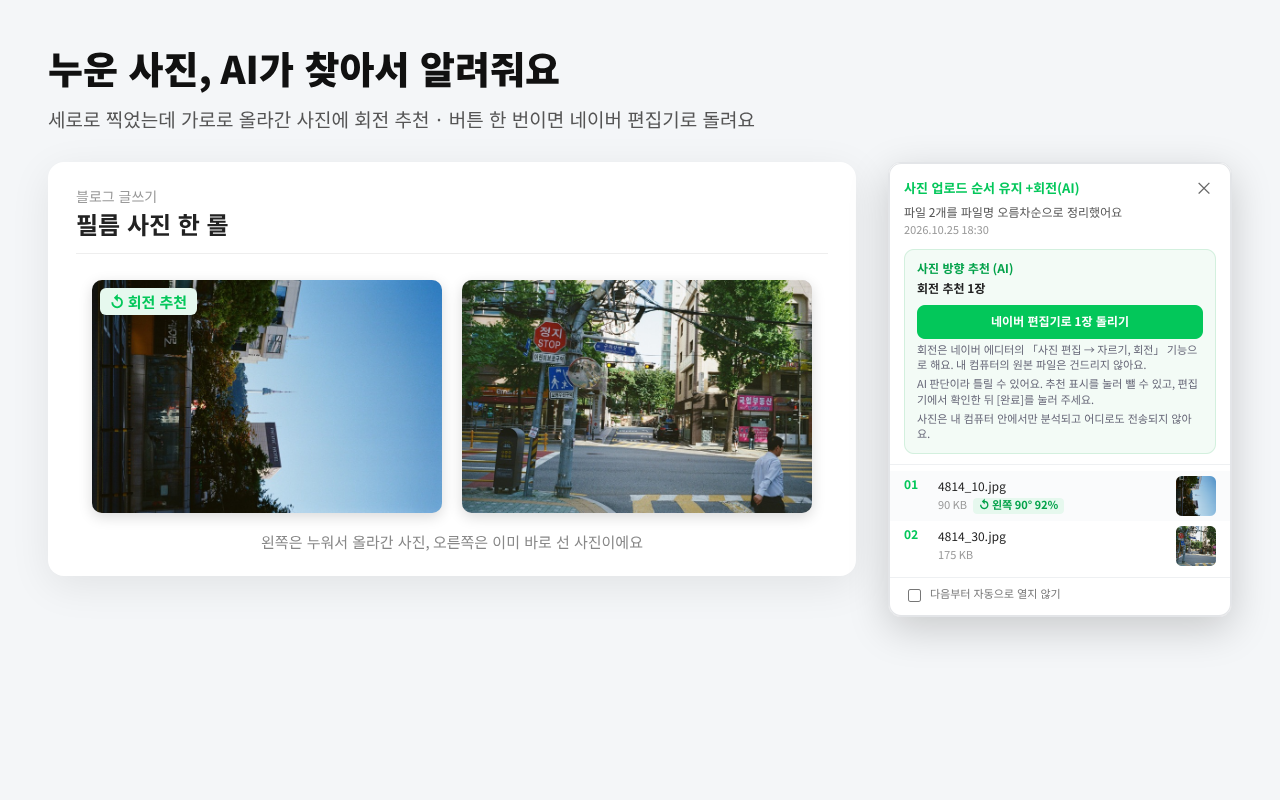
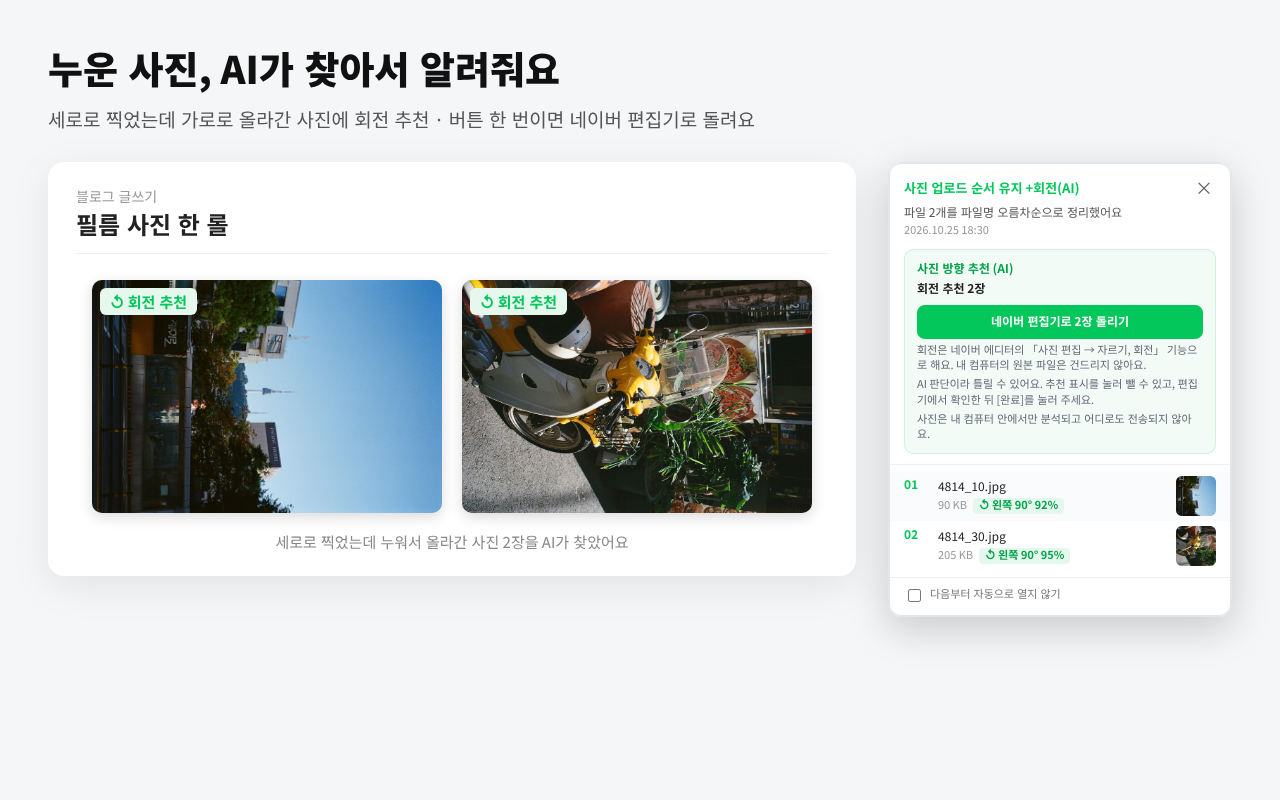
스토어 이미지: 바로 선 예시(4814_30)를 누운 스쿠터 사진으로 교체, 회전 추천 2장 기준으로 갱신
Claude-Session: https://claude.ai/code/session_01QBboerzd2zjP8gfp9oGJJR

Changed region(s): [[0.1875, 0.3438, 0.6562, 0.6875], [0.9062, 0.6562, 0.9688, 0.7188], [0.75, 0.6875, 0.8438, 0.7188]]

diff --git a/05_디자인_제작스크립트/v1.4/store-images-render-v1.4.js b/05_디자인_제작스크립트/v1.4/store-images-render-v1.4.js
@@ -1,6 +1,6 @@
 // v1.4.0 스토어 이미지 생성 (정렬 + 사진 방향 추천 AI + 네이버 카페 지원)
-// 필요한 파일: 필름 사진 4814_10.jpg(누운 사진)·4814_30.jpg(바로 선 사진), 확장 소스(sorter.js의 PANEL_CSS로 결과 목록을 그림)
-// v1.4.0: 예시 사진을 2장(10·30)만 쓰도록 변경, 결과 목록은 실제 확장 CSS로 다시 그림
+// 필요한 파일: 필름 사진 4814_10.jpg·4814_scooter.jpg(둘 다 누운 사진), 확장 소스(sorter.js의 PANEL_CSS로 결과 목록을 그림)
+// v1.4.0: 예시 사진을 누운 사진 2장(거리·스쿠터)으로 변경, 결과 목록은 실제 확장 CSS로 다시 그림
 // 실행: EXT=<확장 소스 폴더> node store-images-render-v1.4.js
 const { chromium } = require(process.env.PW || 'playwright');
 const fs = require('fs');
@@ -14,8 +14,8 @@ const thumb = (n, i, w=150) => `<div style="width:${w}px;height:${Math.round(w*0
   <div style="position:absolute;left:8px;bottom:6px;background:rgba(0,0,0,.6);color:#fff;font-size:${w>120?13:11}px;padding:2px 7px;border-radius:5px">${n}</div></div>`;
 const toast = (txt) => `<div style="display:inline-block;background:rgba(30,30,30,.92);color:#fff;padding:12px 20px;border-radius:10px;font-size:17px;box-shadow:0 6px 20px rgba(0,0,0,.25);white-space:nowrap"><b style="color:${G}">${NAME_SHORT}</b>: ${txt}</div>`;
 const sorted = ['IMG_1.jpg','IMG_2.jpg','IMG_3.jpg','IMG_4.jpg','IMG_5.jpg','IMG_10.jpg'];
-// 필름 사진: 10은 누워 있음(왼쪽 90° 돌리면 바로 섬), 30은 바로 선 사진
-const film = { s10: uri('4814_10.jpg'), u30: uri('4814_30.jpg') };
+// 필름 사진: 둘 다 누워 있음(왼쪽 90° 돌리면 바로 섬)
+const film = { s10: uri('4814_10.jpg'), s2: uri('4814_scooter.jpg') };
 // 누운 사진을 바로 세운 모습 (가로 사진 영역 안에서 -90° 회전)
 const photo = (src, w, { rotate = false, tag = '' } = {}) => {
   const h = Math.round(w * 2 / 3);
@@ -53,12 +53,12 @@ const chip = (txt, color = G, bg = '#e6f8ee') => `<span style="display:inline-bl
   const panelHtml = `<style>${PANEL_CSS} body{margin:0;background:#fff} .wrap{font-family:"Noto Sans CJK KR",sans-serif !important}</style>
    <div class="wrap"><header><div class="top"><span class="title">${NAME_SHORT}</span><button class="close">×</button></div>
      <div class="meta">파일 2개를 파일명 오름차순으로 정리했어요</div><div class="sub">2026.10.25 18:30</div>
-     <div class="ai"><div class="ai-head">사진 방향 추천 (AI)</div><div class="ai-status">회전 추천 1장</div>
-       <button class="ai-go">네이버 편집기로 1장 돌리기</button>
+     <div class="ai"><div class="ai-head">사진 방향 추천 (AI)</div><div class="ai-status">회전 추천 2장</div>
+       <button class="ai-go">네이버 편집기로 2장 돌리기</button>
        <div class="ai-note">회전은 네이버 에디터의 「사진 편집 → 자르기, 회전」 기능으로 해요. 내 컴퓨터의 원본 파일은 건드리지 않아요.</div>
        <div class="ai-note">AI 판단이라 틀릴 수 있어요. 추천 표시를 눌러 뺄 수 있고, 편집기에서 확인한 뒤 [완료]를 눌러 주세요.</div>
        <div class="ai-note">사진은 내 컴퓨터 안에서만 분석되고 어디로도 전송되지 않아요.</div></div></header>
-     <ol>${row('01', '4814_10.jpg', '90 KB', '왼쪽 90° 92%', film.s10)}${row('02', '4814_30.jpg', '175 KB', '', film.u30)}</ol>
+     <ol>${row('01', '4814_10.jpg', '90 KB', '왼쪽 90° 92%', film.s10)}${row('02', '4814_30.jpg', '205 KB', '왼쪽 90° 95%', film.s2)}</ol>
      <footer><label><input type="checkbox"> 다음부터 자동으로 열지 않기</label></footer></div>`;
   const pg = await b.newPage({ viewport: { width: 342, height: 800 }, deviceScaleFactor: 2 });
   await pg.setContent(panelHtml);
@@ -84,9 +84,9 @@ const chip = (txt, color = G, bg = '#e6f8ee') => `<span style="display:inline-bl
         <div style="font-size:14px;color:#999">블로그 글쓰기</div>
         <div style="font-size:24px;font-weight:700;color:#222;border-bottom:1px solid #eee;padding-bottom:12px">필름 사진 한 롤</div>
         <div style="display:flex;gap:20px;margin-top:26px;justify-content:center;align-items:center">
-          ${photo(film.s10, 350, { tag: recTag })}${photo(film.u30, 350)}
+          ${photo(film.s10, 350, { tag: recTag })}${photo(film.s2, 350, { tag: recTag })}
         </div>
-        <div style="font-size:15px;color:#888;margin-top:18px;text-align:center">왼쪽은 누워서 올라간 사진, 오른쪽은 이미 바로 선 사진이에요</div>
+        <div style="font-size:15px;color:#888;margin-top:18px;text-align:center">세로로 찍었는데 누워서 올라간 사진 2장을 AI가 찾았어요</div>
       </div>
       ${panelImg(342)}
     </div>
@@ -99,15 +99,15 @@ const chip = (txt, color = G, bg = '#e6f8ee') => `<span style="display:inline-bl
     <div style="display:flex;gap:36px;align-items:center;margin-top:40px">
       <div>
         <div style="font-size:18px;font-weight:700;color:#e5484d;margin-bottom:12px">올린 그대로</div>
-        <div style="border:2px solid #e5484d;border-radius:16px;padding:22px;display:flex;gap:16px">${photo(film.s10, 230)}${photo(film.u30, 230)}</div>
+        <div style="border:2px solid #e5484d;border-radius:16px;padding:22px;display:flex;gap:16px">${photo(film.s10, 230)}${photo(film.s2, 230)}</div>
       </div>
       <div style="font-size:54px;color:${G};font-weight:800;margin-top:30px">→</div>
       <div>
         <div style="font-size:18px;font-weight:700;color:${G};margin-bottom:12px">네이버 편집기로 회전한 뒤</div>
-        <div style="border:2px solid ${G};border-radius:16px;padding:22px;display:flex;gap:16px;align-items:center">${photo(film.s10, 230, { rotate: true, tag: okTag })}${photo(film.u30, 230, { tag: sameTag })}</div>
+        <div style="border:2px solid ${G};border-radius:16px;padding:22px;display:flex;gap:16px;align-items:center">${photo(film.s10, 230, { rotate: true, tag: okTag })}${photo(film.s2, 230, { rotate: true, tag: okTag })}</div>
       </div>
     </div>
-    <div style="margin-top:34px;background:#03c75a;color:#fff;padding:12px 22px;border-radius:10px;font-size:17px;font-weight:700;box-shadow:0 6px 18px rgba(0,0,0,.18)">AI 추천대로 1장을 돌렸어요 · 확인 후 [완료]를 눌러 주세요 · 원본 파일은 그대로예요</div>
+    <div style="margin-top:34px;background:#03c75a;color:#fff;padding:12px 22px;border-radius:10px;font-size:17px;font-weight:700;box-shadow:0 6px 18px rgba(0,0,0,.18)">AI 추천대로 2장을 돌렸어요 · 확인 후 [완료]를 눌러 주세요 · 원본 파일은 그대로예요</div>
     <div style="font-size:16px;color:#888;margin-top:16px">AI 판단이라 틀릴 수 있어요 · 추천 표시를 눌러 뺄 수 있고, 마지막 [완료]는 직접 눌러요</div>
    </div>`],
   // 3) 블로그·카페 순서 유지 (v1.4.0 NEW: 카페)
